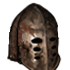
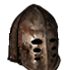
adds in goblin head bones as a layer

diff --git a/make_legend_helmets.py b/make_legend_helmets.py
@@ -480,11 +480,11 @@ layers = [
  "title" :  "Orc Great Helm", \
  "desc" :  "The distinctive helm of an orc warlord" \
 },
-{"name" : "crude_metal_helm"                     , "layer" : "helm", "min" : 1, "max" : 3, "value" : 550, "con" : 65, "stam" : -6, "vis" : -1, "hair" : "true", "beard" : "false",  \
+{"name" : "crude_metal_helm"                     , "layer" : "helm", "min" : 1, "max" : 3, "value" : 550, "con" : 65, "stam" : -6, "vis" : -1, "hair" : "true", "beard" : "true",  \
  "title" :  "Crude Metal Helm", \
  "desc" :  "Although crudely made and rusty, this metal helmet is a durable and sturdy piece of armor." \
 },
-{"name" : "crude_cylinder_helm"                     , "layer" : "helm", "min" : 1, "max" : 2, "value" : 800, "con" : 110, "stam" : -10, "vis" : -2, "hair" : "true", "beard" : "false",  \
+{"name" : "crude_cylinder_helm"                     , "layer" : "helm", "min" : 1, "max" : 2, "value" : 800, "con" : 110, "stam" : -10, "vis" : -2, "hair" : "true", "beard" : "true",  \
  "title" :  "Crude Cylinder Helm", \
  "desc" :  "This heavy metal helmet also protects the wearers face, albeit at the cost of visibility." \
 },
@@ -1089,6 +1089,10 @@ layers = [
 {"name" : "warlock_hood"                     , "layer" : "vanity", "min" : 1, "max" : 4, "value" : 200, "con" : 10, "stam" : -1, "vis" : 0, "hair" : "true", "beard" : "false",  \
  "title" :  "Warlock Hood", \
  "desc" :  "Warlock Hood" \
+},
+{"name" : "goblin_bones"                     , "layer" : "vanity", "min" : 1, "max" : 1, "value" : 550, "con" : 10, "stam" : -1, "vis" : 0, "hair" : "true", "beard" : "false",  \
+ "title" :  "Goblin Bones", \
+ "desc" :  "Skull ornament used by greenskin shamans" \
 },
 {"name" : "back_crest"                     , "layer" : "vanity", "lowervanity" : True, "min" : 1, "max" : 4, "value" : 200, "con" : 10, "stam" : -1, "vis" : 0, "hair" : "false", "beard" : "false",  \
  "title" :  "Crest", \
